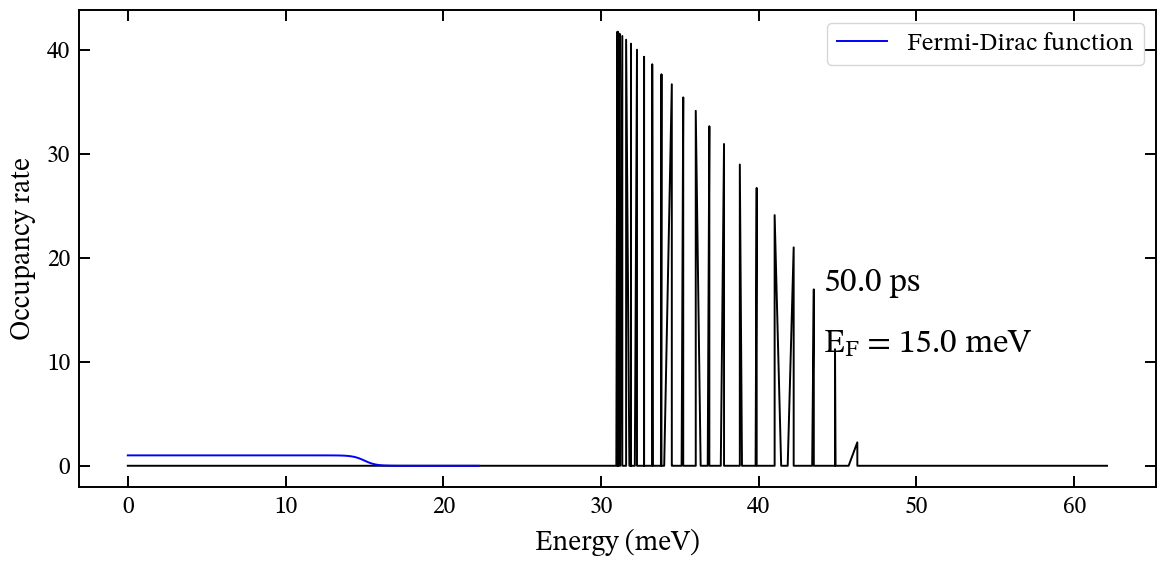
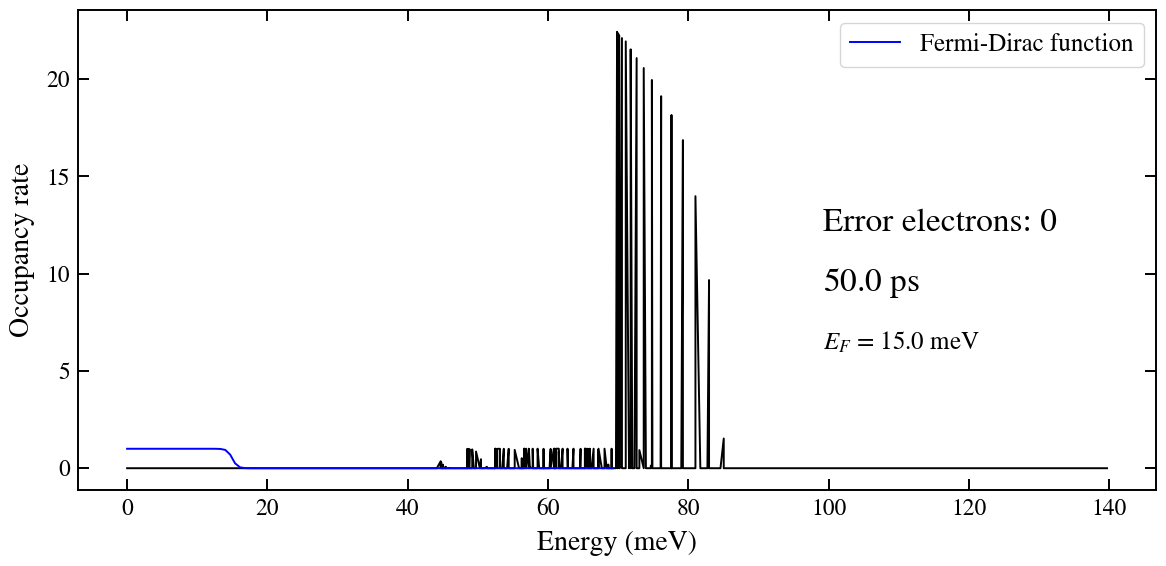
partition fixed

diff --git a/src/test2.py b/src/test2.py
@@ -1,249 +1,37 @@
-'''
-This program does EMC with fermi degeneracy effect,
-and plots time lapse of drift velocity and mean energy.
-'''
 import joblib
-import time as tm
 import numpy as np
-import matplotlib
 import matplotlib.pyplot as plt
+from matplotlib import animation
 from numpy.random import rand
 from scipy.constants import e, hbar, m_e
 from scipy.constants import k as k_b
 from scipy.integrate import quad
-from matplotlib import animation
-from matplotlib import rcParams
-from variables import os_windows, T, partition, num_e
+from variables import os_windows, T, partition, num_e, m_star
 
-E_F_arr = [10e-3]
+num_e = int(1e5)
+cell_row = partition
+kT = k_b * T / e  # thermal energy (eV)
+E_F = 10e-3  # Fermi level (eV)
+F = np.array([1e4,0])
+F_x = F[0]  # electric field along x (V/m)
+sim_time_index = 50
 
-def EMC(i):
-    m_star = 0.1 * m_e  # effective mass (kg)
-    kT = k_b * T / e  # thermal energy (eV)
-    E_F = E_F_arr[i]  # Fermi level (eV)
-    sim_time_index = 50
+E_pho = 60e-3  # phonon energy (eV)
+N_pho = 1 / (np.exp(E_pho / kT) - 1)  # phonon distribution
+g_s = 2 # spin factor
 
-    F = np.array([1e5,0])
-    F_x = F[0]  # electric field along x (V/m)
+dos2d = m_star / (np.pi * hbar**2) * e  # density of states (/m2 eV)
+N_e = dos2d * kT * np.log(1 + np.exp(E_F / kT))  # electron density (/m2)
 
-    E_pho = 60e-3  # phonon energy (eV)
-    N_pho = 1 / (np.exp(E_pho / kT) - 1)  # phonon distribution
-    g_s = 2 # spin factor
-
-    tau_e = 1e-12  # elastic scattering time (s)
-    tau_p = 1e-12  # phonon scattering time for T = 0 (s)
-
-    dos2d = m_star / (np.pi * hbar**2) * e  # density of states (/m2 eV)
-    N_e = dos2d * kT * np.log(1 + np.exp(E_F / kT))  # electron density (/m2)
-
-    W_ela = 1 / tau_e  # elastic scattering rate (/s)
-    W_emi = (1 + N_pho) / tau_p  # phonon emission rate (/s)
-    W_abs = N_pho / tau_p  # phonon absorption rate (/s)
-    W_total = W_ela + W_emi + W_abs  # total scattering rate (/s)
-
-    E_max = np.amax([E_F, 0]) + 20 * kT  # cut-off energy (eV)
-
-    def FD(E):
-        return 1 / (1 + np.exp((E - E_F) / kT))
-
-    def krandom(ksquared):
-        k_abs = np.sqrt(ksquared)
-        theta = 2 * np.pi * rand()
-        k_x = k_abs * np.cos(theta)
-        k_y = k_abs * np.sin(theta)
-        return np.array([k_x, k_y])
-
-    def ktoE(k):
-        return hbar**2 * (k[0]**2 + k[1]**2) / (2 * m_star * e)
-
-    def Etok(E):
-        ksquared = 2 * m_star * E * e / hbar**2
-        return krandom(ksquared)
-
-    def ene_thd(): # randomly generate a thermal equilibrium energy
-        while True:
-            E_val = rand() * E_max
-            df_val = rand()
-            df_true = 1 / (1 + np.exp((E_val - E_F) / kT))
-            if df_val < df_true:
-                return E_val
-
-    def f(E): # calculate the mean energy
-        v = E / (1 + np.exp((E - E_F) / kT))
-        return v / (N_e / dos2d)
-    E_mean, err = quad(f, 0, E_max)
-
-
-
-    ### generate the initial thermal distribution
-
-    k_ini = []
-    for i in range(num_e):
-        k_ini.append(Etok(ene_thd()))
-    k_arr = np.array(k_ini)
-    k_arr = k_arr.T # k_arr : k_x, k_y values of each electrons
-
-    k_max = np.max(np.abs(k_arr))
-    pow = np.floor(np.log10(k_max))
-    k_max = int(np.ceil(k_max / 10**pow)) * 10**pow
-
-    f_k = np.zeros((partition, partition)) # f(k) should be updated periodically
-    k_delta = 2 * k_max / partition
-
-    def Get_fk_index(k):
-        k_x = k[0] + k_max
-        k_y = k[1] + k_max
-        x_index = int(k_x / k_delta)
-        y_index = int(k_y / k_delta)
-        return x_index, y_index
-
-
-    alpha = (2*np.pi)**2 * N_e / (g_s * num_e * k_delta**2)
-    for i in range(len(k_arr[0])):
-        x_index, y_index = Get_fk_index(k_arr[:, i])
-        f_k[y_index][x_index] += alpha
-
-
-
-    ### EMC
-
-    sim_time = sim_time_index * 1e-12  # simulation time (s)
-    delta_t = 4e-14  # time step (s)
-    cur_time = 0
-    time_arr = []
-    v_drift_arr = []
-    E_mean_arr = []
-    E_diff_arr = []
-    Ei_arr = np.zeros(num_e) # energy array of each electrons
-    time_index = 1
-    # initialize Ei_arr
-    for i in range(num_e):
-            k_i = k_arr[:,i]
-            Ei_arr[i] = ktoE(k_i)
-    E_meaned = np.mean(Ei_arr)
-    E_mean_max = E_meaned
-    E_mean_min = E_meaned
-
-    F_x_arr  = np.array([0.0, F_x])
-    for F_index in range(len(F_x_arr)):
-        cur_time = 0
-        time_index = 1
-        F[0] = F_x_arr[F_index]
-        # main stream
-        while cur_time < sim_time:
-            cur_time += delta_t
-            if cur_time > time_index* (1e-12):
-                print(cur_time)
-                time_index += 1
-            time_arr.append(cur_time)
-            E_diff = 0
-            for i in range(num_e):
-                k_new = k_arr[:, i] + F * (e * delta_t / hbar) # free flight
-                x_index_1, y_index_1 = Get_fk_index(k_arr[:, i])
-                x_index_2, y_index_2 = Get_fk_index(k_new)
-                f_k[y_index_1][x_index_1] -= alpha
-                f_k[y_index_2][x_index_2] += alpha
-                k_arr[:, i] = k_new
-                # scattering process
-                if rand() < W_total * delta_t:
-                    r = rand()
-                    if r < W_ela / W_total:
-                        # elastic scattering 
-                        k_new = krandom(k_new[0]**2 + k_new[1]**2) 
-                    elif r < (W_ela + W_emi) / W_total:
-                        # phonon emission
-                        E_val = ktoE(k_new)
-                        if E_val > E_pho:
-                            E_val -= E_pho
-                            k_new = Etok(E_val)
-                    else:
-                        # phonon absorption
-                        E_val = ktoE(k_new)
-                        E_val += E_pho
-                        k_new = Etok(E_val)
-                # check if k could be updated
-                x_index_new, y_index_new = Get_fk_index(k_new)
-                if x_index_new >= 0 and x_index_new < partition and y_index_new >= 0 and y_index_new < partition:
-                    if rand() < (1 - f_k[y_index_new][x_index_new]):
-                        # updated k
-                        x_index, y_index = Get_fk_index(k_arr[:, i])
-                        f_k[y_index][x_index] -= alpha
-                        f_k[y_index_new][x_index_new] += alpha
-                        k_arr[:,i] = k_new
-                        E_diff += ktoE(k_new) - Ei_arr[i]
-                        Ei_arr[i] = ktoE(k_new)
-            vd_val = vd = hbar * np.mean(k_arr, axis=1) / m_star
-            v_drift_arr.append(vd_val)
-            E_meaned += E_diff / num_e
-            E_mean_arr.append(E_meaned)
-            E_diff_arr.append(E_diff / num_e)
-
-    time = np.array(time_arr)
-    v_drift = np.array(v_drift_arr)
-    energy = np.array(E_mean_arr)
-    E_diff_arr = np.array(E_diff_arr)
-
-    ### Plotting
-
-    T0 = 1e-12  # unit of time
-    V0 = 1e5    # unit of drift velocity
-    E0 = 1e-3   # unit of energy
-
-    plt.style.use('scientific')
-    if os_windows:
-        plt.rcParams['mathtext.fontset'] = 'custom'
-        plt.rcParams['mathtext.rm'] = 'STIX Two Text'
-        plt.rcParams['font.family'] = ['STIX Two Text']
-    fig = plt.figure(figsize=(12, 12))
-
-    ax = fig.add_subplot(2, 2, 1)
-
-    ax.set_xlim(0, sim_time / T0)
-    ax.plot(time / T0, v_drift[:, 0] / V0, c='k', label = "x-direction")
-    ax.plot(time / T0, v_drift[:, 1] / V0, c='b', label = "y-direction")
-    plt.legend()
-
-    ax.set_xlabel(r'Time (ps)')
-    ax.set_ylabel(r'Drift Velocity ($10^5$ m/s)')
-
-    for tau_0 in [1 / (W_ela + W_abs), 1 / (W_ela + W_abs + W_emi)]:
-        v_0 = e * tau_0 / m_star * F_x
-        ax.axhline(v_0 / V0, c='k', ls=':')
-
-    ax = fig.add_subplot(2, 2, 2)
-    ax.set_xlim(0, sim_time / T0)
-
-    ax.plot(time / T0, energy / E0, c='k')
-    ax.axhline(E_mean / E0, ls=':')
-
-    ax.set_xlabel(r'Time (ps)')
-    ax.set_ylabel(r'Mean Energy (meV)')
-
-    if os_windows:
-        ax.text(0.45, 0.30, r'$\mathrm{E_{\mathrm{F}}}$ = ' + f'${E_F * 1e3}$ meV',
-            ha='left', va='center', transform=ax.transAxes, fontsize = 18)
-        ax.text(0.45, 0.20, r'$\mathrm{n_{\mathrm{e}}}$ = ' + f'{N_e / 1e16:.2f} ' + 
-            r'$\times 10^{12}\ {\mathrm{cm}}^{-2}$',
-            ha='left', va='center', transform=ax.transAxes, fontsize = 18)
-    else:
-        ax.text(0.45, 0.30, r'$E_{\rm F}$ = ' + f'${E_F * 1e3}$ meV',
-            ha='left', va='center', transform=ax.transAxes, fontsize = 18)
-        ax.text(0.45, 0.20, r'$n_{\rm e}$ = ' + f'{N_e / 1e16:.2f} ' + 
-            r'$\times 10^{12}\ {\rm cm}^{-2}$',
-            ha='left', va='center', transform=ax.transAxes, fontsize = 18)
-
-    ax = fig.add_subplot(2, 2, 3)
-    ax.set_xlim(0, sim_time / T0)
-    ax.plot(time / T0, E_diff_arr / E0, c='k')
-    ax.axhline(0 / E0, ls=':')
-
-    ax.set_xlabel(r'Time (ps)')
-    ax.set_ylabel(r'Gained Energy (meV)')
-
-    fig.tight_layout()
-    fig.savefig('imgs/EMC_degeneracy/dist_function_F_0/' + "v_drift E_mean time response F_" + str(int(F_x * 1e-5)) + "e5/" + "EF_" + str(int(E_F * 1e3)) + "meV" + "_" + str(int(sim_time_index)))
-
-begin_time = tm.time()
-_ = joblib.Parallel(n_jobs=-1)(joblib.delayed(EMC)(i) for i in range(len(E_F_arr)))
-end_time = tm.time()
-print(end_time - begin_time)
+tau_e = 1e-12  # elastic scattering time (s)
+tau_p = 1e-12  # phonon scattering time for T = 0 (s)
+W_ela = 1 / tau_e  # elastic scattering rate (/s)
+W_emi = (1 + N_pho) / tau_p  # phonon emission rate (/s)
+W_abs = N_pho / tau_p  # phonon absorption rate (/s)
+W_total = W_ela + W_emi + W_abs  # total scattering rate (/s)
+tau = 1 / W_total
+print("tau: " + str(tau))
+k_bar = e*F_x*tau/hbar
+E_bar = hbar**2 * k_bar**2 / (2*m_star*e) * 1e3
+print("kbar: " + str(k_bar))
+print("E_bar: " + str(E_bar) + " meV")

diff --git a/src/test.py b/src/test.py
@@ -9,12 +9,13 @@ from scipy.integrate import quad
 from variables import os_windows, T, partition, num_e, m_star
 
 E_F_arr = [5e-3, 10e-3, 15e-3]
+tau_p_arr = [1e-12, 5e-13, 2e-13]
 
 def EMC_NoElectricField_gifs(joblib_index):
-	num_e = int(1e5)
-	cell_row = partition
+	global num_e
+	global partition
 	kT = k_b * T / e  # thermal energy (eV)
-	E_F = E_F_arr[joblib_index]  # Fermi level (eV)
+	E_F = 10e-3  # Fermi level (eV)
 	F = np.array([1e4,0])
 	F_x = F[0]  # electric field along x (V/m)
 	sim_time_index = 50
@@ -27,17 +28,24 @@ def EMC_NoElectricField_gifs(joblib_index):
 	N_e = dos2d * kT * np.log(1 + np.exp(E_F / kT))  # electron density (/m2)
 
 	tau_e = 1e-12  # elastic scattering time (s)
-	tau_p = 1e-12  # phonon scattering time for T = 0 (s)
+	tau_p = tau_p_arr[joblib_index]  # phonon scattering time for T = 0 (s)
 	W_ela = 1 / tau_e  # elastic scattering rate (/s)
 	W_emi = (1 + N_pho) / tau_p  # phonon emission rate (/s)
 	W_abs = N_pho / tau_p  # phonon absorption rate (/s)
 	W_total = W_ela + W_emi + W_abs  # total scattering rate (/s)
 
-	E_max = np.amax([E_F, 0]) + 20 * kT  # cut-off energy (eV)
+	# E_max will determine the size of k-space grid
+	E_max = np.amax([E_F, 0]) + 200 * kT  # cut-off energy (eV)
 	k_max = np.sqrt(2 * m_star * E_max * e / hbar**2)
 	pow = np.floor(np.log10(k_max))
 	k_max = int(np.ceil(k_max / 10**pow)) * 10**pow
 
+	p_multi = int(E_max / (np.amax([E_F, 0]) + 20 * kT))
+	partition = int(partition * p_multi)
+	if partition % 2 == 0:
+		partition -= 1
+	cell_row = partition
+	print("taup: " + str(tau_p) + ", partition" + str(partition))
 
 	def FD(E):
 		return 1 / (1 + np.exp((E - E_F) / kT))
@@ -75,6 +83,7 @@ def EMC_NoElectricField_gifs(joblib_index):
 	k_delta = 2 * k_max / cell_row # length of one cell edge
 	fd_arr_k = np.zeros((cell_row, cell_row))
 	p_num_arr = np.zeros((cell_row, cell_row))
+	recent_error_num_e = 0
 
 	def index_to_k(y_index, x_index):
 		k_x = x_index * k_delta - k_max + 1/2 * k_delta
@@ -149,7 +158,9 @@ def EMC_NoElectricField_gifs(joblib_index):
 			img = plt.plot(f_E_arr[:,0] / E0, f_E_arr[:,1], c='k')
 		text1 = fig.text(0.7, 0.50, f'${round(cur_time * 1e12, 0)}$ ps',
 				ha='left', va='center', fontsize = 24)
-		ims.append(img + [text1])
+		text2 = fig.text(0.7, 0.60, "Error electrons: " + str(int(recent_error_num_e)),
+				ha='left', va='center', fontsize = 24)
+		ims.append(img + [text1] + [text2])
 
 	E_arr_forF = np.linspace(0,E_max,num=100)
 	Fermi_arr = FD(E_arr_forF)
@@ -180,6 +191,7 @@ def EMC_NoElectricField_gifs(joblib_index):
 				error_num_e += f_arr_k[y_index][cell_row - 1] / alpha
 		error_num_e = int(error_num_e)
 		print("error num e: " + str(error_num_e))
+		recent_error_num_e = error_num_e
 
 		for y_index in range(cell_row):
 			f_arr_k[y_index][cell_row - 1] += f_arr_k[y_index][cell_row - 2]
@@ -256,9 +268,9 @@ def EMC_NoElectricField_gifs(joblib_index):
 		fig.text(0.7, 0.40, r'$E_{F}$ = ' + f'${E_F * 1e3}$ meV',
 				ha='left', va='center')
 	ani = animation.ArtistAnimation(fig, ims, interval = 50)
-	ani_name = "EF_" + str(int(E_F * 1e3)) + "meV" + ".gif"
+	ani_name = "taup_" + str(tau_p) + ".gif"
 	fig.tight_layout()
-	ani.save('../imgs/EMC_degeneracy/EMC_gif_NoEnergyDependency/' + ani_name, writer='pillow')
-	fig.savefig('../imgs/EMC_degeneracy/EMC_gif_NoEnergyDependency/' + "EF_" + str(int(E_F * 1e3)) + "meV" + "_" + str(int(sim_time_index)))
+	ani.save('../imgs/EMC_degeneracy/EMC_gif_NoEnergyDependency/EF_10meV_taup/' + ani_name, writer='pillow')
+	fig.savefig('../imgs/EMC_degeneracy/EMC_gif_NoEnergyDependency/EF_10meV_taup/' + "taup_" + str(tau_p) + "_" + str(int(sim_time_index)))
 
-_ = joblib.Parallel(n_jobs=-1)(joblib.delayed(EMC_NoElectricField_gifs)(index) for index in range(len(E_F_arr)))
+_ = joblib.Parallel(n_jobs=-1)(joblib.delayed(EMC_NoElectricField_gifs)(index) for index in range(len(tau_p_arr)))

diff --git a/src/variables.py b/src/variables.py
@@ -1,6 +1,6 @@
 from scipy.constants import e, hbar, m_e
 
-os_windows = True
+os_windows = False
 T = 4.2
 partition = 61
 num_e = int(1e5)
